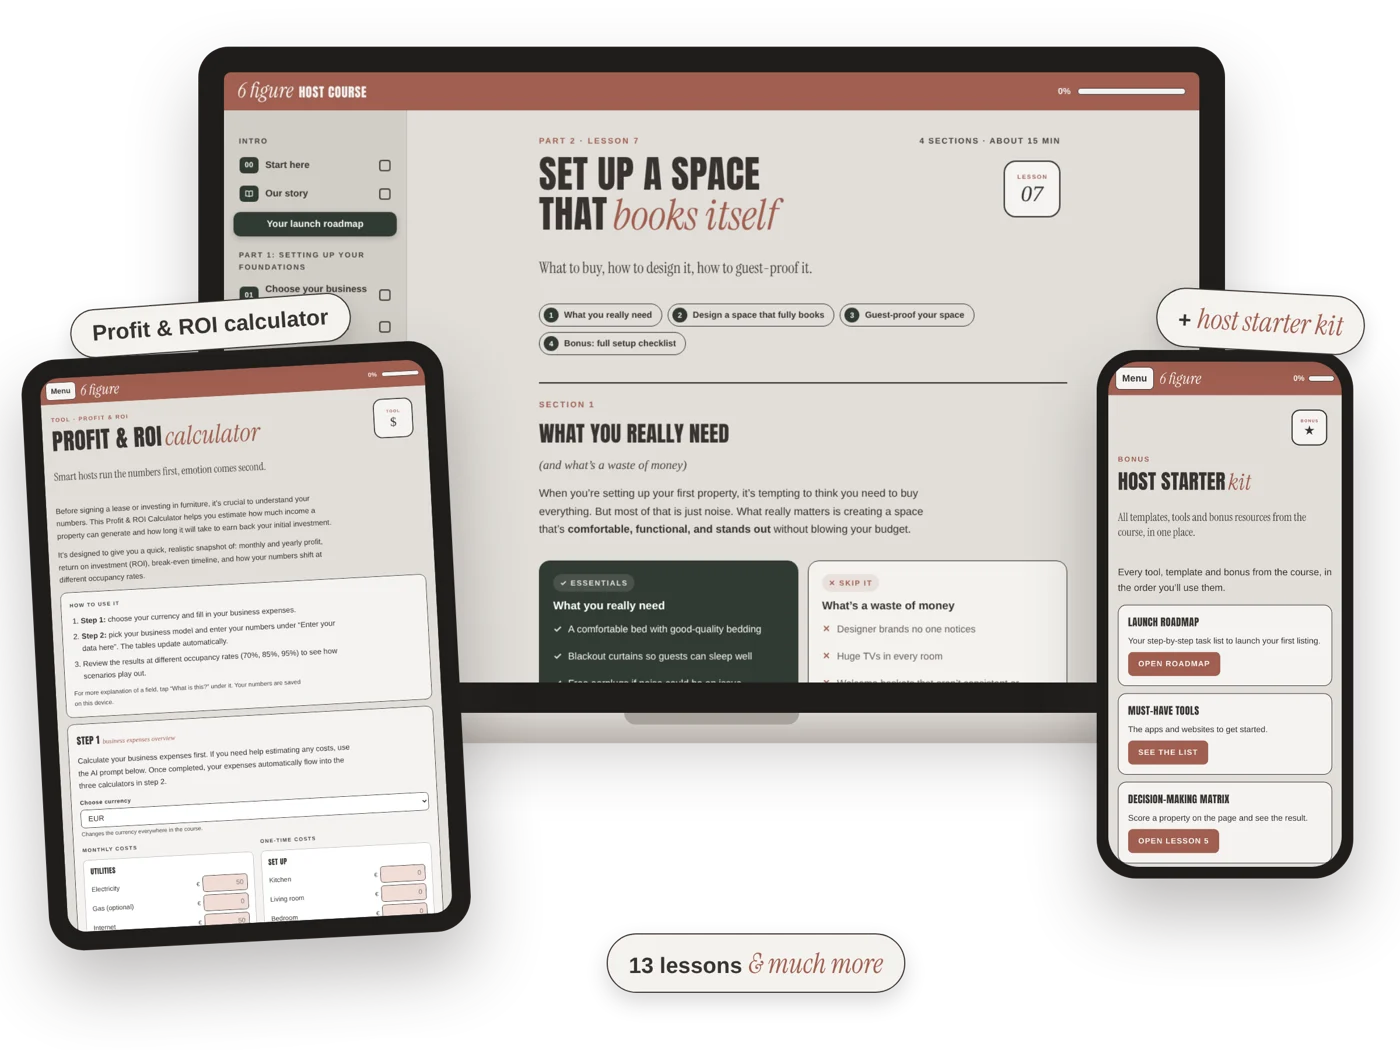
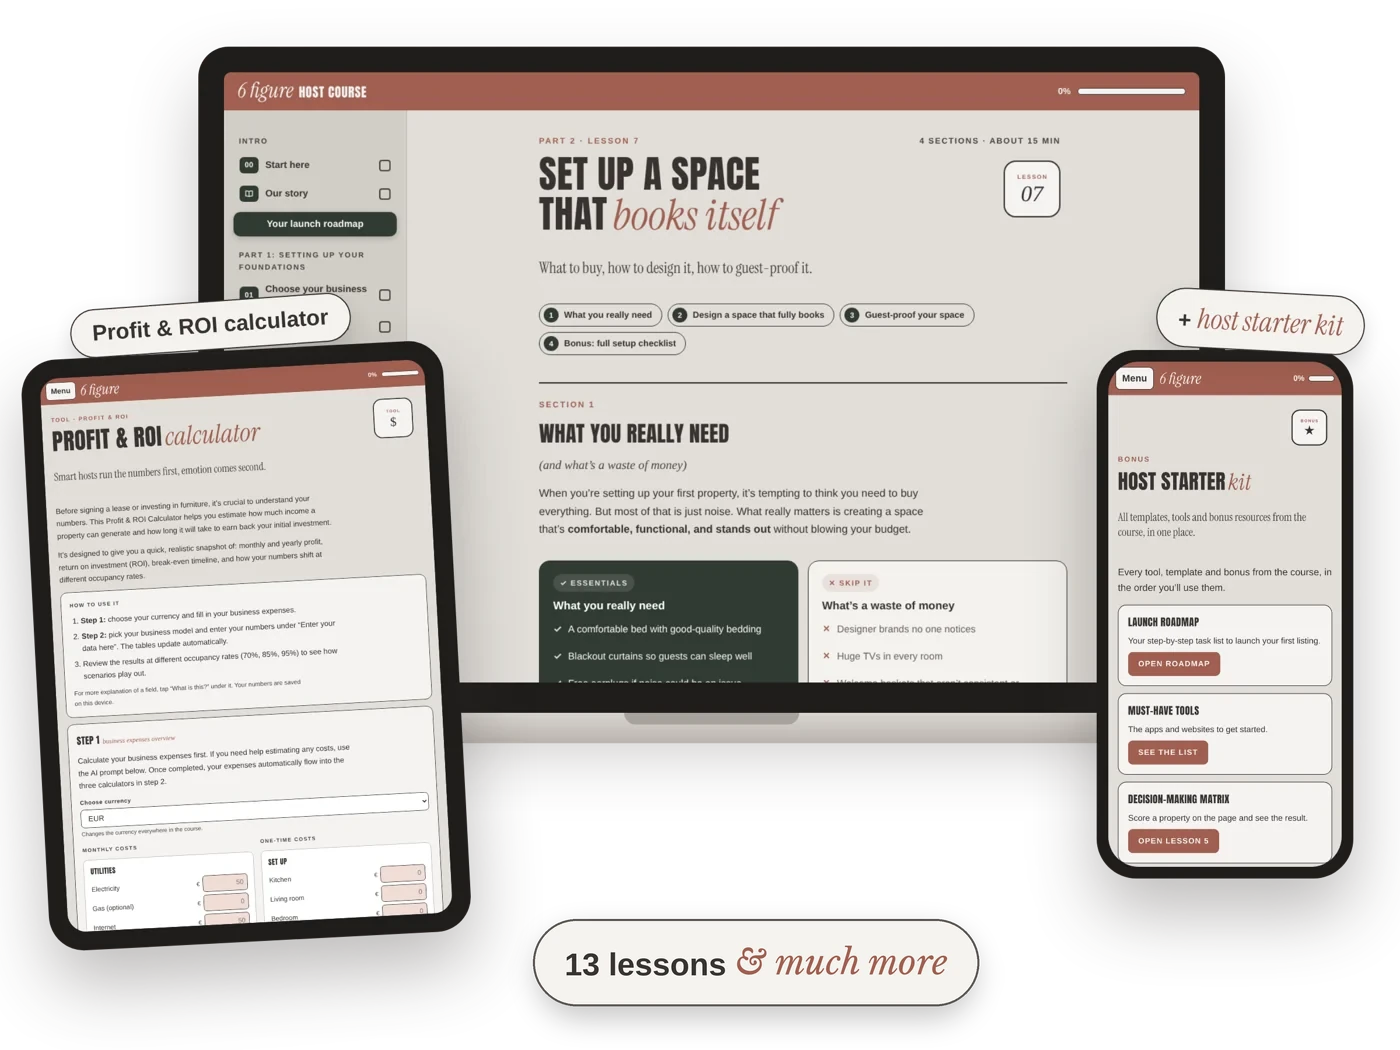
Course mockup: bigger '13 lessons & much more' tag
Claude-Session: https://claude.ai/code/session_01C381KxaT4psJj3SoiNXJMm

Changed region(s): [[0.3686, 0.8838, 0.7064, 0.9752]]

diff --git a/public/calculator/index.html b/public/calculator/index.html
@@ -7,7 +7,7 @@
 <meta name="description" content="See in seconds if a property is profitable before you rent or buy it: profit, ROI and break-even for arbitrage, leasehold and ownership.">
 <meta property="og:title" content="Profit &amp; ROI Calculator · Know if a property is profitable">
 <meta property="og:description" content="See in seconds if a property is profitable before you rent or buy it: profit, ROI and break-even for arbitrage, leasehold and ownership.">
-<meta property="og:image" content="https://6figurehost.com/assets/course-mockup.webp">
+<meta property="og:image" content="https://6figurehost.com/assets/course-mockup.webp?v=2">
 <link rel="preconnect" href="https://fonts.googleapis.com"><link rel="preconnect" href="https://fonts.gstatic.com" crossorigin><link href="https://fonts.googleapis.com/css2?family=Anton&amp;family=Arimo:ital,wght@0,400;0,700;1,400&amp;family=Libre+Baskerville:ital,wght@0,400;1,400&amp;family=Pinyon+Script&amp;display=swap" rel="stylesheet">
 <link rel="stylesheet" href="/assets/sales.css?v=20261123j">
 <script src="/assets/offer.js?v=6" defer></script>
@@ -74,7 +74,7 @@
 </div>
 </div>
 </section>
-<section class="sec night"><div class="in two"><div class="copy"><h2 class="lock"><span class="sc">Want the full system?</span><span class="dp">The calculator is in the course</span></h2><p class="lead">The 6-Figure Host Course includes this calculator, the host starter kit and 13 lessons to launch, run and scale your rental business.</p><div class="ctawrap"><a class="cta" href="/course/">See the course</a></div></div><img src="/assets/course-mockup.webp" width="1400" height="957" alt="The 6-Figure Host Course on a laptop, tablet and phone" loading="lazy"></div></section>
+<section class="sec night"><div class="in two"><div class="copy"><h2 class="lock"><span class="sc">Want the full system?</span><span class="dp">The calculator is in the course</span></h2><p class="lead">The 6-Figure Host Course includes this calculator, the host starter kit and 13 lessons to launch, run and scale your rental business.</p><div class="ctawrap"><a class="cta" href="/course/">See the course</a></div></div><img src="/assets/course-mockup.webp?v=2" width="1400" height="957" alt="The 6-Figure Host Course on a laptop, tablet and phone" loading="lazy"></div></section>
 <section class="sec"><div class="in two flip top"><h2 class="lock"><span class="sc">Questions</span><span class="dp">Before you buy</span></h2><div class="faq"><details open><summary>Do I need Excel?</summary><p>No. The calculator works in your browser, on your phone or laptop. Nothing to download.</p></details><details><summary>I am bad at maths. Will I understand it?</summary><p>Yes. You only type in the basics, like rent, rooms and nightly price. Every field has a short “What is this?” explanation.</p></details><details><summary>What currencies does it support?</summary><p>EUR, USD, CAD, BRL, IDR, THB, AUD, MXN, JPY, CHF and AED.</p></details><details><summary>Is this a one-time payment?</summary><p>Yes. You pay once and keep lifetime access.</p></details><details><summary>Is it included in the course?</summary><p>Yes. If you buy the 6-Figure Host Course, the calculator is already inside.</p></details></div></div></section>
 <footer class="foot">
 <div class="in">

diff --git a/public/barcelona/index.html b/public/barcelona/index.html
@@ -7,7 +7,7 @@
 <meta name="description" content="How to run a legal, profitable rental business in Barcelona with mid-term stays, and copy the model to any city in Europe.">
 <meta property="og:title" content="Barcelona Host Guide · Legal mid-term rentals in Barcelona">
 <meta property="og:description" content="How to run a legal, profitable rental business in Barcelona with mid-term stays, and copy the model to any city in Europe.">
-<meta property="og:image" content="https://6figurehost.com/assets/course-mockup.webp">
+<meta property="og:image" content="https://6figurehost.com/assets/course-mockup.webp?v=2">
 <link rel="preconnect" href="https://fonts.googleapis.com"><link rel="preconnect" href="https://fonts.gstatic.com" crossorigin><link href="https://fonts.googleapis.com/css2?family=Anton&amp;family=Arimo:ital,wght@0,400;0,700;1,400&amp;family=Libre+Baskerville:ital,wght@0,400;1,400&amp;family=Pinyon+Script&amp;display=swap" rel="stylesheet">
 <link rel="stylesheet" href="/assets/sales.css?v=20261123j">
 <script src="/assets/offer.js?v=6" defer></script>
@@ -63,7 +63,7 @@
 <p class="lead">The city guide shows you the local rules and numbers. The 6-Figure Host Course shows you how to launch, run and scale the business itself, with the host starter kit and the profit calculator included.</p>
 <div class="ctawrap"><a class="cta" href="/course/">See the course</a><small>Already includes the Profit Calculator.</small></div>
 </div>
-<img src="/assets/course-mockup.webp" width="1400" height="957" alt="The 6-Figure Host Course on a laptop, tablet and phone" loading="lazy">
+<img src="/assets/course-mockup.webp?v=2" width="1400" height="957" alt="The 6-Figure Host Course on a laptop, tablet and phone" loading="lazy">
 </div>
 </section>
 <section class="sec"><div class="in two flip top"><h2 class="lock"><span class="sc">Questions</span><span class="dp">Before you buy</span></h2><div class="faq"><details open><summary>When do I get access?</summary><p>Right after checkout. You get your personal access code on the screen and by email, and you open the guide straight away.</p></details><details><summary>Is this legal advice?</summary><p>No. The guide shares our experience and public information as of October 2026. Catalan and Spanish rules change fast, so always confirm your case with a lawyer and a tax advisor.</p></details><details><summary>Do I need the course too?</summary><p>No, the guide works on its own. If you are new to hosting, the 6-Figure Host Course covers how to launch, run and scale the business itself.</p></details><details><summary>Does it only work in Barcelona?</summary><p>The rules are specific to Barcelona and Catalonia, but lesson 11 shows you how to take the mid-term model to other European cities.</p></details><details><summary>Do you offer refunds?</summary><p>As this is a digital product, no refunds can be given after purchase. If you bought it twice by accident, write to <a href="mailto:contact@6figurehost.com">contact@6figurehost.com</a>.</p></details></div></div></section>

diff --git a/public/bali/index.html b/public/bali/index.html
@@ -7,7 +7,7 @@
 <meta name="description" content="How to legally invest, build and run a profitable villa rental in Bali, even as a foreigner.">
 <meta property="og:title" content="Bali Host Guide · Invest in a villa rental in Bali, legally">
 <meta property="og:description" content="How to legally invest, build and run a profitable villa rental in Bali, even as a foreigner.">
-<meta property="og:image" content="https://6figurehost.com/assets/course-mockup.webp">
+<meta property="og:image" content="https://6figurehost.com/assets/course-mockup.webp?v=2">
 <link rel="preconnect" href="https://fonts.googleapis.com"><link rel="preconnect" href="https://fonts.gstatic.com" crossorigin><link href="https://fonts.googleapis.com/css2?family=Anton&amp;family=Arimo:ital,wght@0,400;0,700;1,400&amp;family=Libre+Baskerville:ital,wght@0,400;1,400&amp;family=Pinyon+Script&amp;display=swap" rel="stylesheet">
 <link rel="stylesheet" href="/assets/sales.css?v=20261123j">
 <script src="/assets/offer.js?v=6" defer></script>
@@ -63,7 +63,7 @@
 <p class="lead">The city guide shows you the local rules and numbers. The 6-Figure Host Course shows you how to launch, run and scale the business itself, with the host starter kit and the profit calculator included.</p>
 <div class="ctawrap"><a class="cta" href="/course/">See the course</a><small>Already includes the Profit Calculator.</small></div>
 </div>
-<img src="/assets/course-mockup.webp" width="1400" height="957" alt="The 6-Figure Host Course on a laptop, tablet and phone" loading="lazy">
+<img src="/assets/course-mockup.webp?v=2" width="1400" height="957" alt="The 6-Figure Host Course on a laptop, tablet and phone" loading="lazy">
 </div>
 </section>
 <section class="sec"><div class="in two flip top"><h2 class="lock"><span class="sc">Questions</span><span class="dp">Before you buy</span></h2><div class="faq"><details open><summary>When do I get access?</summary><p>Right after checkout. You get your personal access code on the screen and by email, and you open the guide straight away.</p></details><details><summary>Is this legal advice?</summary><p>No. The guide shares our experience and public information as of October 2026. Indonesian rules change often and differ per regency, so always confirm your case with a licensed notary, lawyer or consultant.</p></details><details><summary>Do I need the course too?</summary><p>No, the guide works on its own. If you are new to hosting, the 6-Figure Host Course covers how to launch, run and scale the business itself.</p></details><details><summary>Can a foreigner really do this?</summary><p>Yes, through leasehold or a company, never through a nominee. The guide explains each legal route.</p></details><details><summary>Do you offer refunds?</summary><p>As this is a digital product, no refunds can be given after purchase. If you bought it twice by accident, write to <a href="mailto:contact@6figurehost.com">contact@6figurehost.com</a>.</p></details></div></div></section>

diff --git a/public/masterclassvideo/index.html b/public/masterclassvideo/index.html
@@ -7,7 +7,7 @@
 <meta name="description" content="Watch the free masterclass by Farah &amp; Daniel: how to build a profitable rental business in Barcelona, Bali or anywhere, with or without owning property.">
 <meta property="og:title" content="Free masterclass · 6-Figure Host">
 <meta property="og:description" content="Watch the free masterclass by Farah &amp; Daniel: how to build a profitable rental business in Barcelona, Bali or anywhere, with or without owning property.">
-<meta property="og:image" content="https://6figurehost.com/assets/course-mockup.webp">
+<meta property="og:image" content="https://6figurehost.com/assets/course-mockup.webp?v=2">
 <link rel="preconnect" href="https://fonts.googleapis.com"><link rel="preconnect" href="https://fonts.gstatic.com" crossorigin><link href="https://fonts.googleapis.com/css2?family=Anton&amp;family=Arimo:ital,wght@0,400;0,700;1,400&amp;family=Libre+Baskerville:ital,wght@0,400;1,400&amp;family=Pinyon+Script&amp;display=swap" rel="stylesheet">
 <link rel="stylesheet" href="/assets/sales.css?v=20261123j">
 <script src="/assets/offer.js?v=6" defer></script>
@@ -49,7 +49,7 @@
 <p>The masterclass shows you how the model works. The 6-Figure Host Course gives you everything to do it yourself: the launch roadmap, landlord scripts, the profit calculator, contracts and checklists, and our real case studies from Barcelona and Bali.</p>
 <div class="ctawrap"><a class="cta" href="/course/#pricing"><span data-o="cta">Get instant access for $343</span></a><small>One payment or split pay. Lifetime access.</small></div>
 </div>
-<img src="/assets/course-mockup.webp" width="1400" height="957" alt="The 6-Figure Host Course on a laptop, tablet and phone" loading="lazy">
+<img src="/assets/course-mockup.webp?v=2" width="1400" height="957" alt="The 6-Figure Host Course on a laptop, tablet and phone" loading="lazy">
 </div>
 </section>
 <footer class="foot">

diff --git a/public/index.html b/public/index.html
@@ -7,7 +7,7 @@
 <meta name="description" content="Ten years of hosting in Barcelona and Bali, turned into a course, city guides and a calculator to build a profitable, legal rental business.">
 <meta property="og:title" content="6-Figure Host · Farah &amp; Daniel">
 <meta property="og:description" content="Ten years of hosting in Barcelona and Bali, turned into a course, city guides and a calculator to build a profitable, legal rental business.">
-<meta property="og:image" content="https://6figurehost.com/assets/course-mockup.webp">
+<meta property="og:image" content="https://6figurehost.com/assets/course-mockup.webp?v=2">
 <link rel="preconnect" href="https://fonts.googleapis.com"><link rel="preconnect" href="https://fonts.gstatic.com" crossorigin><link href="https://fonts.googleapis.com/css2?family=Anton&amp;family=Arimo:ital,wght@0,400;0,700;1,400&amp;family=Libre+Baskerville:ital,wght@0,400;1,400&amp;family=Pinyon+Script&amp;display=swap" rel="stylesheet">
 <link rel="stylesheet" href="/assets/sales.css?v=20261123j">
 <script src="/assets/offer.js?v=6" defer></script>
@@ -96,7 +96,7 @@
 <h2 class="h-h2"><span class="sc">Our products</span>Choose what fits you</h2>
 
 <article class="h-course">
-<div class="h-cimg"><img src="/assets/course-mockup.webp" width="1400" height="957" alt="The 6-Figure Host Course on a laptop, tablet and phone" loading="lazy"><span class="h-badge">Start here</span></div>
+<div class="h-cimg"><img src="/assets/course-mockup.webp?v=2" width="1400" height="957" alt="The 6-Figure Host Course on a laptop, tablet and phone" loading="lazy"><span class="h-badge">Start here</span></div>
 <div class="h-cbody">
 <p class="h-pk">The complete system</p>
 <h3>6-Figure Host Course</h3>

diff --git a/public/course/owner/index.html b/public/course/owner/index.html
@@ -7,7 +7,7 @@
 <meta name="description" content="Already own an apartment, a house or a spare room? Turn it into a profitable short- or mid-term rental that runs with systems, not with your evenings.">
 <meta property="og:title" content="Turn your property into a 5-star rental · 6-Figure Host Course">
 <meta property="og:description" content="Already own an apartment, a house or a spare room? Turn it into a profitable short- or mid-term rental that runs with systems, not with your evenings.">
-<meta property="og:image" content="https://6figurehost.com/assets/course-mockup.webp">
+<meta property="og:image" content="https://6figurehost.com/assets/course-mockup.webp?v=2">
 <link rel="preconnect" href="https://fonts.googleapis.com"><link rel="preconnect" href="https://fonts.gstatic.com" crossorigin><link href="https://fonts.googleapis.com/css2?family=Anton&amp;family=Arimo:ital,wght@0,400;0,700;1,400&amp;family=Libre+Baskerville:ital,wght@0,400;1,400&amp;family=Pinyon+Script&amp;display=swap" rel="stylesheet">
 <link rel="stylesheet" href="/assets/sales.css?v=20261123j">
 <script src="/assets/offer.js?v=6" defer></script>

diff --git a/public/course/nomad/index.html b/public/course/nomad/index.html
@@ -7,7 +7,7 @@
 <meta name="description" content="Build a rental business that funds a life of travel: self check-in, automated messages and a local team, so you can manage it from anywhere.">
 <meta property="og:title" content="Rental income you can run from anywhere · 6-Figure Host Course">
 <meta property="og:description" content="Build a rental business that funds a life of travel: self check-in, automated messages and a local team, so you can manage it from anywhere.">
-<meta property="og:image" content="https://6figurehost.com/assets/course-mockup.webp">
+<meta property="og:image" content="https://6figurehost.com/assets/course-mockup.webp?v=2">
 <link rel="preconnect" href="https://fonts.googleapis.com"><link rel="preconnect" href="https://fonts.gstatic.com" crossorigin><link href="https://fonts.googleapis.com/css2?family=Anton&amp;family=Arimo:ital,wght@0,400;0,700;1,400&amp;family=Libre+Baskerville:ital,wght@0,400;1,400&amp;family=Pinyon+Script&amp;display=swap" rel="stylesheet">
 <link rel="stylesheet" href="/assets/sales.css?v=20261123j">
 <script src="/assets/offer.js?v=6" defer></script>

diff --git a/public/our-story/index.html b/public/our-story/index.html
@@ -7,7 +7,7 @@
 <meta name="description" content="How Daniel &amp; Farah went from sleeping on the couch in Barcelona to a six-figure hosting business with homes around the world, without owning property.">
 <meta property="og:title" content="Our story · 6-Figure Host">
 <meta property="og:description" content="How Daniel &amp; Farah went from sleeping on the couch in Barcelona to a six-figure hosting business with homes around the world, without owning property.">
-<meta property="og:image" content="https://6figurehost.com/assets/course-mockup.webp">
+<meta property="og:image" content="https://6figurehost.com/assets/course-mockup.webp?v=2">
 <link rel="preconnect" href="https://fonts.googleapis.com"><link rel="preconnect" href="https://fonts.gstatic.com" crossorigin><link href="https://fonts.googleapis.com/css2?family=Anton&amp;family=Arimo:ital,wght@0,400;0,700;1,400&amp;family=Libre+Baskerville:ital,wght@0,400;1,400&amp;family=Pinyon+Script&amp;display=swap" rel="stylesheet">
 <link rel="stylesheet" href="/assets/sales.css?v=20261123j">
 <script src="/assets/offer.js?v=6" defer></script>

diff --git a/public/course/start/index.html b/public/course/start/index.html
@@ -7,7 +7,7 @@
 <meta name="description" content="Rental arbitrage and co-hosting, step by step: start a profitable rental business without buying property, even on a small budget.">
 <meta property="og:title" content="Start a rental business without owning property · 6-Figure Host Course">
 <meta property="og:description" content="Rental arbitrage and co-hosting, step by step: start a profitable rental business without buying property, even on a small budget.">
-<meta property="og:image" content="https://6figurehost.com/assets/course-mockup.webp">
+<meta property="og:image" content="https://6figurehost.com/assets/course-mockup.webp?v=2">
 <link rel="preconnect" href="https://fonts.googleapis.com"><link rel="preconnect" href="https://fonts.gstatic.com" crossorigin><link href="https://fonts.googleapis.com/css2?family=Anton&amp;family=Arimo:ital,wght@0,400;0,700;1,400&amp;family=Libre+Baskerville:ital,wght@0,400;1,400&amp;family=Pinyon+Script&amp;display=swap" rel="stylesheet">
 <link rel="stylesheet" href="/assets/sales.css?v=20261123j">
 <script src="/assets/offer.js?v=6" defer></script>

diff --git a/public/free-masterclass/index.html b/public/free-masterclass/index.html
@@ -7,7 +7,7 @@
 <meta name="description" content="Free masterclass: how to launch a profitable Airbnb business and earn your first $10k profit, even if you don’t own property.">
 <meta property="og:title" content="Free masterclass · 6-Figure Host">
 <meta property="og:description" content="Free masterclass: how to launch a profitable Airbnb business and earn your first $10k profit, even if you don’t own property.">
-<meta property="og:image" content="https://6figurehost.com/assets/course-mockup.webp">
+<meta property="og:image" content="https://6figurehost.com/assets/course-mockup.webp?v=2">
 <link rel="preconnect" href="https://fonts.googleapis.com"><link rel="preconnect" href="https://fonts.gstatic.com" crossorigin><link href="https://fonts.googleapis.com/css2?family=Anton&amp;family=Arimo:ital,wght@0,400;0,700;1,400&amp;family=Libre+Baskerville:ital,wght@0,400;1,400&amp;family=Pinyon+Script&amp;display=swap" rel="stylesheet">
 <link rel="stylesheet" href="/assets/sales.css?v=20261123j">
 <script src="/assets/offer.js?v=6" defer></script>

diff --git a/public/contact/index.html b/public/contact/index.html
@@ -7,7 +7,7 @@
 <meta name="description" content="Questions about the 6-Figure Host Course, the guides or the calculator? Send Daniel &amp; Farah a message.">
 <meta property="og:title" content="Contact · 6-Figure Host">
 <meta property="og:description" content="Questions about the 6-Figure Host Course, the guides or the calculator? Send Daniel &amp; Farah a message.">
-<meta property="og:image" content="https://6figurehost.com/assets/course-mockup.webp">
+<meta property="og:image" content="https://6figurehost.com/assets/course-mockup.webp?v=2">
 <link rel="preconnect" href="https://fonts.googleapis.com"><link rel="preconnect" href="https://fonts.gstatic.com" crossorigin><link href="https://fonts.googleapis.com/css2?family=Anton&amp;family=Arimo:ital,wght@0,400;0,700;1,400&amp;family=Libre+Baskerville:ital,wght@0,400;1,400&amp;family=Pinyon+Script&amp;display=swap" rel="stylesheet">
 <link rel="stylesheet" href="/assets/sales.css?v=20261123j">
 <script src="/assets/offer.js?v=6" defer></script>

diff --git a/public/checkout/index.html b/public/checkout/index.html
@@ -95,7 +95,7 @@ s.was{color:var(--orange);font-weight:700;margin-right:8px;text-decoration-thick
 <div class="box">
   <section class="prod" id="prod">
     <h1 id="ptitle">6-Figure Host Course</h1>
-    <img class="mock" id="pimg" src="/assets/course-mockup.webp" width="1400" height="957" alt="The 6-Figure Host Course on a laptop, tablet and phone, with the profit calculator and the host starter kit">
+    <img class="mock" id="pimg" src="/assets/course-mockup.webp?v=2" width="1400" height="957" alt="The 6-Figure Host Course on a laptop, tablet and phone, with the profit calculator and the host starter kit">
     <p class="promise" id="ppromise">Your <strong>step-by-step roadmap</strong> to build a profitable Airbnb business for passive income, even without owning property.</p>
     <ul class="ticks" id="pticks">
       <li>13 step-by-step lessons, from first idea to 6 figures</li>
